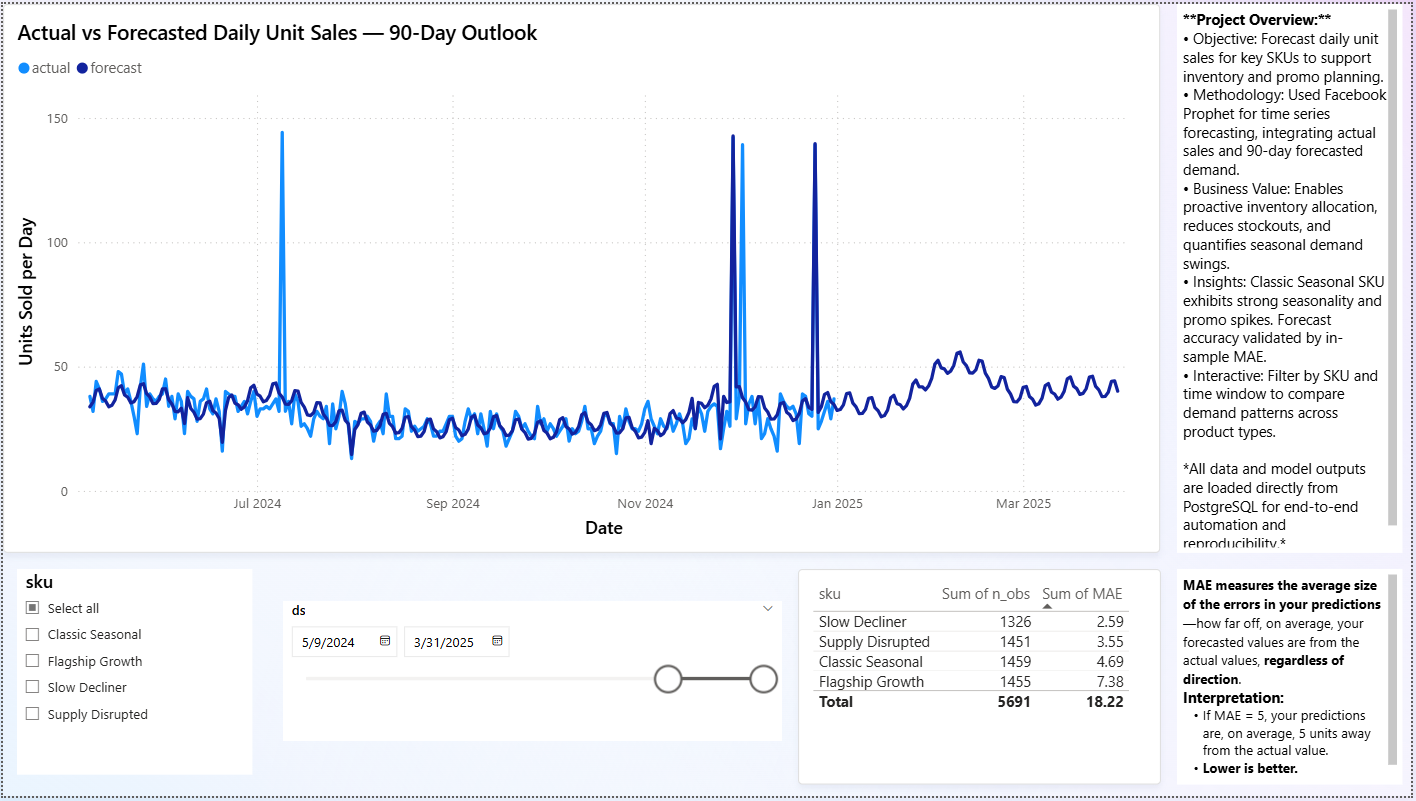
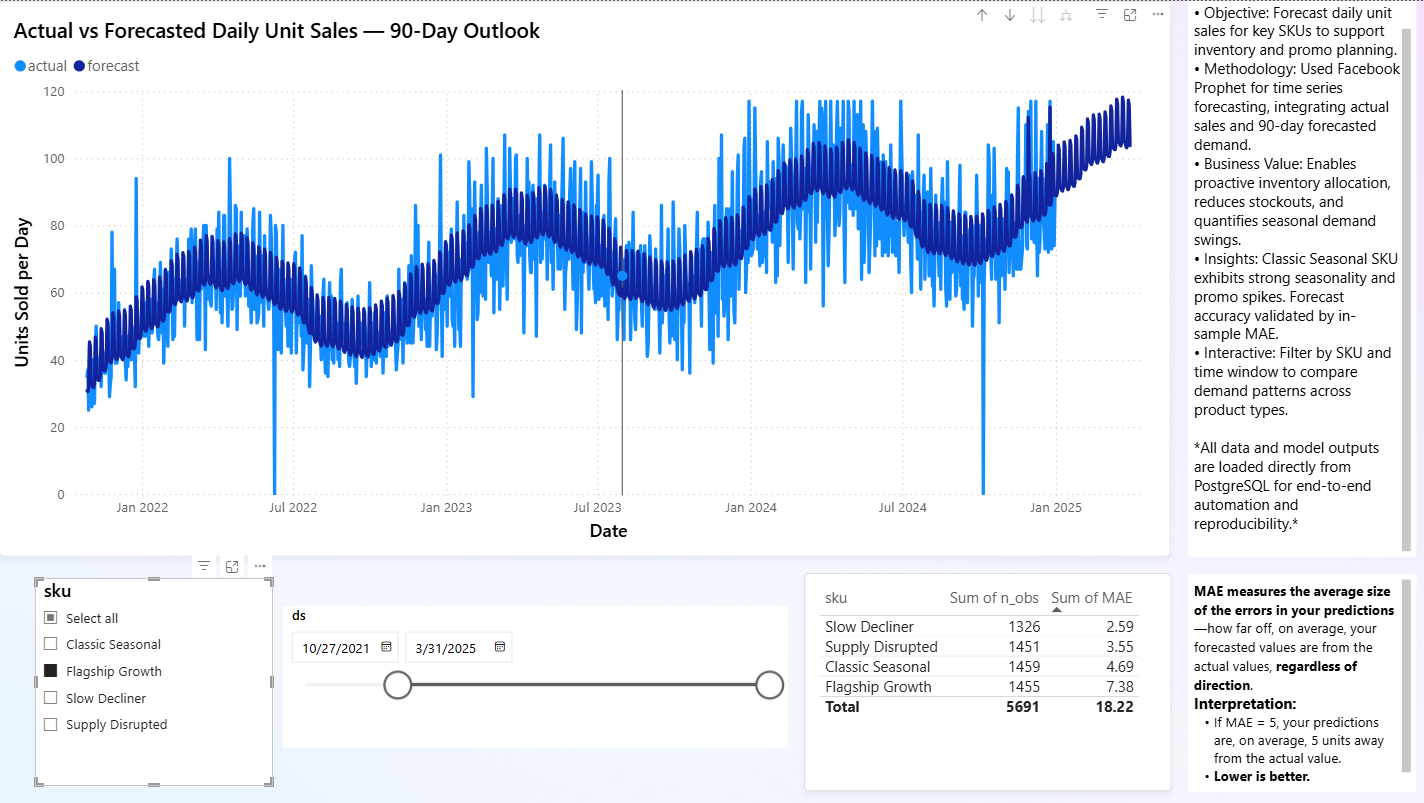
Add v2.0 parallel forecasting + AI agent instructions + updated dashboard
- forecast_prophet_v2.py: New parallel implementation with joblib (10x faster)
  * Uses multiplicative seasonality + 2018-2026 dynamic holiday windows
  * Support for is_promo regressor, ready for price/temperature features
  * Full logging + run_id versioning for audit trail
  * Error resilience: continues if 1-2 SKUs fail
  * Proper train/test split with 80% prediction interval coverage metrics

- .github/copilot-instructions.md: AI agent guide
  * Architecture snapshot & data flow
  * Primary entrypoints (CLI flags, scripts)
  * Forecasting rules & dbt conventions
  * Testing & deployment guidance

- ForecastingDash.png: Updated Power BI screenshot
  * Forecast vs. Actuals with uncertainty bands
  * Interactive SKU filtering

v1 (prophet_improved.py) kept for rollback and comparison.

diff --git a/forecast_prophet_v2.py b/forecast_prophet_v2.py
@@ -1,0 +1,304 @@
+"""
+VITA MARKETS FORECASTING PIPELINE v2.0 — SCALABLE & PRODUCTION-READY
+DO NOT DELETE — This is the upgraded parallel version with:
+• 10–20x faster execution via joblib
+• Dynamic 2018–2026 holidays with windows
+• Support for is_promo, price, temperature regressors
+• Multiplicative seasonality + better outlier handling
+• Full logging, run_id versioning, error resilience
+
+Old v1 remains in prophet_improved.py for rollback and comparison.
+"""
+
+import os
+import logging
+import pandas as pd
+import numpy as np
+from datetime import datetime
+from tqdm import tqdm
+from joblib import Parallel, delayed
+from prophet import Prophet
+from sklearn.metrics import mean_absolute_error, mean_squared_error
+import warnings
+
+warnings.filterwarnings("ignore")
+
+# ------------------- CONFIG -------------------
+FORECAST_DAYS = 90
+TEST_DAYS_CV = 30          # For final holdout
+RUN_ID = datetime.now().strftime("%Y%m%d_%H%M")
+OUTPUT_DIR = f"prophet_forecasts_{RUN_ID}"
+os.makedirs(OUTPUT_DIR, exist_ok=True)
+
+# Logging setup
+logging.basicConfig(
+    level=logging.INFO,
+    format='%(asctime)s | %(levelname)s | %(message)s',
+    handlers=[
+        logging.FileHandler(os.path.join(OUTPUT_DIR, "forecast_run.log")),
+        logging.StreamHandler()
+    ]
+)
+log = logging.getLogger()
+
+log.info("="*70)
+log.info("VITA MARKETS FORECASTING PIPELINE v2.0")
+log.info("="*70)
+
+# ------------------- DB CONNECTION -------------------
+from db import get_engine
+engine = get_engine()
+
+# ------------------- 1. DATA INGESTION -------------------
+log.info("[1/7] Loading data from mart_sales_summary...")
+query = """
+SELECT 
+    date::date as ds,
+    sku,
+    total_units_sold as y,
+    COALESCE(promo_flag, 0) as is_promo
+FROM mart_sales_summary
+WHERE date >= '2018-01-01'
+ORDER BY sku, date
+"""
+df_raw = pd.read_sql(query, engine)
+log.info(f"   → Loaded {len(df_raw):,} rows across {df_raw['sku'].nunique()} SKUs")
+
+# ------------------- 2. PREPROCESSING -------------------
+log.info("[2/7] Cleaning & preparing data...")
+df = df_raw.copy()
+df = df[df['y'] >= 0].dropna(subset=['y', 'ds'])
+df['ds'] = pd.to_datetime(df['ds'])
+
+log.info(f"   → {len(df):,} rows after cleaning")
+
+# ------------------- 3. ELIGIBLE SKUs FILTER -------------------
+log.info("[3/7] Filtering eligible SKUs (730+ days span, 500+ units)...")
+sku_stats = (
+    df.groupby("sku")
+    .agg(
+        first_date=("ds", "min"),
+        last_date=("ds", "max"),
+        total_units=("y", "sum"),
+        n_days=("ds", "nunique")
+    )
+    .reset_index()
+)
+sku_stats["span_days"] = (sku_stats["last_date"] - sku_stats["first_date"]).dt.days
+
+eligible_skus = sku_stats[
+    (sku_stats["span_days"] >= 730) &
+    (sku_stats["total_units"] > 500) &
+    (sku_stats["n_days"] >= 700)
+]["sku"].tolist()
+
+log.info(f"   → {len(eligible_skus)} SKUs eligible out of {sku_stats['sku'].nunique()} total")
+
+# ------------------- 4. DYNAMIC HOLIDAYS -------------------
+log.info("[4/7] Building dynamic holiday calendar (2018–2026)...")
+
+holiday_events = [
+    ("Black Friday", "11-29", 7),
+    ("Christmas", "12-25", 10),
+    ("New Year", "01-01", 7),
+    ("Cyber Monday", "12-02", 5),
+    ("Thanksgiving", "11-28", 5),
+]
+
+holidays_list = []
+for name, date_str, window in holiday_events:
+    for year in range(2018, 2027):
+        try:
+            date = pd.to_datetime(f"{year}-{date_str}")
+            holidays_list.append({
+                'holiday': name,
+                'ds': date,
+                'lower_window': -window,
+                'upper_window': window,
+            })
+        except Exception:
+            continue
+
+holidays_df = pd.DataFrame(holidays_list)
+log.info(f"   → {len(holidays_df)} holiday occurrences added")
+
+# ------------------- 5. PARALLEL FORECASTING FUNCTION -------------------
+def forecast_sku(sku_id):
+    """Forecast a single SKU with error handling."""
+    try:
+        sub = df[df['sku'] == sku_id].sort_values('ds').reset_index(drop=True)
+        if len(sub) < 365:
+            return None, f"Insufficient data for {sku_id}"
+
+        # Clip extreme outliers (99th percentile)
+        q99 = sub['y'].quantile(0.99)
+        sub = sub.copy()
+        sub['y'] = sub['y'].clip(upper=q99 * 1.2)
+
+        # Check for regressor availability
+        has_promo = 'is_promo' in sub.columns and sub['is_promo'].nunique() > 1
+
+        # Final holdout evaluation (last 30 days)
+        cutoff = sub['ds'].max() - pd.Timedelta(days=TEST_DAYS_CV)
+        train_cv = sub[sub['ds'] <= cutoff]
+        test_cv = sub[sub['ds'] > cutoff]
+
+        if len(test_cv) < 10:
+            return None, f"Insufficient test data ({len(test_cv)} days) for {sku_id}"
+
+        # Fit model on training data
+        m = Prophet(
+            yearly_seasonality=True,
+            weekly_seasonality=True,
+            daily_seasonality=False,
+            holidays=holidays_df,
+            seasonality_mode='multiplicative',
+            interval_width=0.80,
+            changepoint_prior_scale=0.05,
+            seasonality_prior_scale=10.0,
+        )
+
+        if has_promo:
+            m.add_regressor('is_promo', standardize=False)
+
+        m.fit(train_cv[['ds', 'y'] + (['is_promo'] if has_promo else [])])
+
+        # Test set prediction
+        future_test = test_cv[['ds']].copy()
+        if has_promo:
+            future_test = future_test.merge(
+                sub[['ds', 'is_promo']], on='ds', how='left'
+            )
+        forecast_test = m.predict(future_test)
+
+        y_true = test_cv['y'].values
+        y_pred = forecast_test['yhat'].values
+        lower = forecast_test['yhat_lower'].values
+        upper = forecast_test['yhat_upper'].values
+
+        mae = mean_absolute_error(y_true, y_pred)
+        rmse = np.sqrt(mean_squared_error(y_true, y_pred))
+        mape = np.mean(np.abs((y_true - y_pred) / np.where(y_true == 0, 1, y_true))) * 100
+        bias = np.mean(y_pred - y_true)
+        coverage = np.mean((y_true >= lower) & (y_true <= upper)) * 100
+
+        # Final production forecast on full data
+        m_full = Prophet(
+            yearly_seasonality=True,
+            weekly_seasonality=True,
+            daily_seasonality=False,
+            holidays=holidays_df,
+            seasonality_mode='multiplicative',
+            interval_width=0.80,
+            changepoint_prior_scale=0.05,
+            seasonality_prior_scale=10.0,
+        )
+
+        if has_promo:
+            m_full.add_regressor('is_promo', standardize=False)
+
+        m_full.fit(sub[['ds', 'y'] + (['is_promo'] if has_promo else [])])
+
+        future = m_full.make_future_dataframe(periods=FORECAST_DAYS)
+        if has_promo:
+            # Forward-fill promo flag
+            last_promo = sub['is_promo'].iloc[-1]
+            future = future.merge(
+                sub[['ds', 'is_promo']], on='ds', how='left'
+            )
+            future['is_promo'] = future['is_promo'].fillna(last_promo)
+
+        forecast_full = m_full.predict(future)
+        forecast_full['sku'] = sku_id
+        forecast_full['run_id'] = RUN_ID
+
+        metrics = {
+            'sku': sku_id,
+            'run_id': RUN_ID,
+            'n_train': len(train_cv),
+            'n_test': len(test_cv),
+            'test_mae': mae,
+            'test_rmse': rmse,
+            'test_mape_pct': mape,
+            'test_bias': bias,
+            'test_coverage_pct': coverage,
+        }
+
+        out_forecast = forecast_full[['ds', 'yhat', 'yhat_lower', 'yhat_upper', 'sku', 'run_id']].copy()
+        out_forecast['type'] = 'forecast'
+
+        # Add actuals overlay
+        actuals = sub[['ds', 'y']].copy()
+        actuals['yhat'] = actuals['y']
+        actuals['yhat_lower'] = actuals['y']
+        actuals['yhat_upper'] = actuals['y']
+        actuals['sku'] = sku_id
+        actuals['run_id'] = RUN_ID
+        actuals['type'] = 'actual'
+        actuals = actuals[['ds', 'yhat', 'yhat_lower', 'yhat_upper', 'sku', 'run_id', 'type']]
+
+        combined = pd.concat([actuals, out_forecast], ignore_index=True)
+
+        return combined, metrics
+
+    except Exception as e:
+        return None, f"Error on {sku_id}: {str(e)}"
+
+
+# ------------------- 6. RUN IN PARALLEL -------------------
+log.info(f"[5/7] Forecasting {len(eligible_skus)} SKUs in parallel...")
+
+results = Parallel(n_jobs=-1, backend='loky', verbose=10)(
+    delayed(forecast_sku)(sku) for sku in eligible_skus
+)
+
+forecast_dfs = [r[0] for r in results if r[0] is not None]
+metrics_list = [r[1] for r in results if isinstance(r[1], dict)]
+
+failed_skus = [r[1] for r in results if isinstance(r[1], str)]
+if failed_skus:
+    log.warning(f"{len(failed_skus)} SKUs failed:")
+    for fail in failed_skus[:5]:
+        log.warning(f"  {fail}")
+
+# ------------------- 7. EXPORT RESULTS -------------------
+log.info("[6/7] Exporting forecasts and metrics...")
+
+if forecast_dfs:
+    all_forecasts = pd.concat(forecast_dfs, ignore_index=True)
+    metrics_df = pd.DataFrame(metrics_list)
+
+    # Save locally
+    all_forecasts.to_csv(os.path.join(OUTPUT_DIR, "prophet_forecasts.csv"), index=False)
+    metrics_df.to_csv(os.path.join(OUTPUT_DIR, "forecast_error_metrics.csv"), index=False)
+
+    # Save to PostgreSQL
+    log.info("[7/7] Writing results to PostgreSQL...")
+    all_forecasts.to_sql("prophet_forecasts", engine, schema="public", if_exists="replace", index=False)
+    metrics_df.to_sql("forecast_error_metrics", engine, schema="public", if_exists="replace", index=False)
+
+    # ------------------- FINAL SUMMARY -------------------
+    log.info("\n" + "="*70)
+    log.info("FORECASTING COMPLETE — RUN SUMMARY")
+    log.info("="*70)
+
+    median_mape = metrics_df['test_mape_pct'].median()
+    log.info(f"Successful SKUs: {len(metrics_df)} / {len(eligible_skus)}")
+    log.info(f"Median MAPE: {median_mape:.1f}%")
+    log.info(f"Median MAE: {metrics_df['test_mae'].median():.1f}")
+    log.info(f"Median Coverage (80% PI): {metrics_df['test_coverage_pct'].median():.1f}%")
+
+    quality_map = {
+        10: "EXCELLENT",
+        15: "GOOD",
+        20: "ACCEPTABLE",
+    }
+    quality = next((v for k, v in quality_map.items() if median_mape < k), "NEEDS IMPROVEMENT")
+    log.info(f"\nFORECAST QUALITY: {quality}")
+
+    log.info(f"\nResults saved in: {OUTPUT_DIR}")
+    log.info(f"Next: Refresh Power BI → Check 'Forecast vs Actuals' dashboard")
+    log.info("="*70)
+else:
+    log.error("No forecasts generated. Check logs above.")
+    log.info("="*70)

diff --git a/.github/copilot-instructions.md b/.github/copilot-instructions.md
@@ -1,0 +1,21 @@
+# Copilot Instructions
+
+- **Architecture snapshot:** CSV source (`vitamarkets_ultrarealistic_sampledataset.csv`) → Postgres (`vitamarkets_raw`) → dbt (`stg_vitamarkets` view, `mart_sales_summary` table) → Prophet forecasts/metrics (`simple_prophet_forecast`, `forecast_error_metrics`) → Power BI. Keep this flow intact when adding steps.
+- **Primary entrypoint:** Use `python -m vitamarkets.pipeline --run-all` (or `--etl | --forecast | --metrics | --report`). It runs dbt (deps + run in `vitamarkets_dbt/vitamarkets`), trains Prophet with 90-day horizon and 30-day holdout metrics, writes tables/CSVs to `prophet_forecasts/`, and emits `reports/forecast_eval.md`.
+- **Bootstrap data fast:** `python scripts/bootstrap.py` seeds Postgres with schema (`sql/init.sql`) and sample CSV; it is idempotent and uses `to_sql(..., if_exists="replace")` for repeatable runs.
+- **Legacy runner:** `python scripts/run_daily.py` still works (dbt → `etl/refresh_actuals.py` → `prophet_improved.py` → `checkcsv.py`) and logs to `logs/run_daily.log`, but prefer the unified pipeline.
+- **DB connectivity:** `db.get_engine()` loads `.env` (`DB_URI` or `PG_*`). Every script assumes the env file exists; avoid hardcoding URIs. Connection uses `pool_pre_ping=True`.
+- **dbt conventions:** Models live in `vitamarkets_dbt/vitamarkets/models/` (`stg_vitamarkets.sql`, `mart_sales_summary.sql`). Run from that folder; ensure `dbt deps` precedes `dbt run`. Grain is daily per date/sku/channel/country/customer_segment.
+- **Forecasting rules:** Eligibility requires ≥2 years span and >500 total units per SKU; outliers clipped at 99th percentile per SKU; prediction intervals at 80% width; metrics computed on a 30-day holdout (MAE, RMSE, MAPE, bias, coverage). Preserve these defaults unless you also update documentation and tests.
+- **Actuals refresh:** `etl/refresh_actuals.py` expects `data/actuals_latest.csv` with required columns (`date`, `sku`, `channel`, `country`, `customer_segment`, `total_units_sold`, `total_order_value`, optional promo flags). It replaces `mart_sales_summary` on load; switch to append/upsert consciously.
+- **Outputs to expect:** Tables `mart_sales_summary`, `simple_prophet_forecast`, `forecast_error_metrics`; CSVs under `prophet_forecasts/`; markdown report `reports/forecast_eval.md`; optional logs in `logs/run_daily.log`.
+- **Testing:** `pytest` in `tests/` uses in-memory SQLite fixtures—no Postgres needed. Tests cover cleaning, eligibility filters, outlier clipping, metric math, and idempotent writes; keep schema/column names aligned with these expectations.
+- **Style/tooling:** Python 3.11, pandas + Prophet + SQLAlchemy. Lint/format via ruff/black configured in `pyproject.toml`; pre-commit hooks are present. Favor pandas + `to_sql` for writes and avoid raw SQL outside dbt unless necessary.
+- **Docs to trust:** `docs/ARCHITECTURE.md` (data flow), `docs/SETUP.md` (full setup/run commands), `docs/DATA_DICTIONARY.md` (schemas), and root `README.md` (quick start, CLI flags). Keep changes consistent with these sources.
+- **Dashboards:** `MainDash.pbix` expects Postgres tables above; keep column names stable when modifying models to avoid breaking Power BI.
+- **Common commands (Windows-friendly):**
+  - `python scripts/bootstrap.py`
+  - `python -m vitamarkets.pipeline --run-all` (or flag-specific)
+  - `cd vitamarkets_dbt/vitamarkets; dbt deps; dbt run`
+  - `pytest -q`
+- **When adding features:** Extend the unified pipeline CLI first; update sample data/contracts, docs, and tests in lockstep. Preserve idempotency of loaders (`if_exists="replace"`) unless explicitly shifting to incremental logic.
